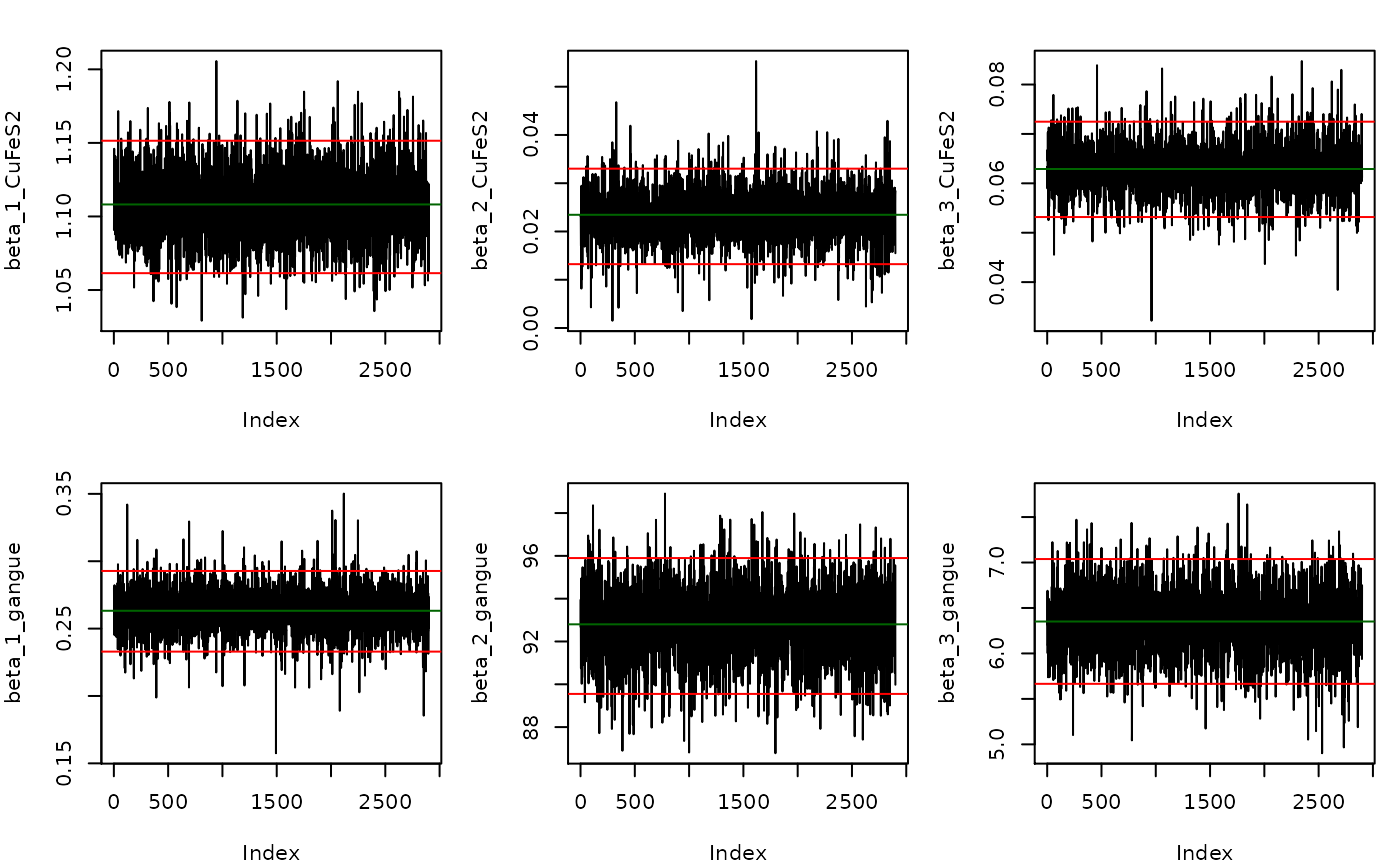
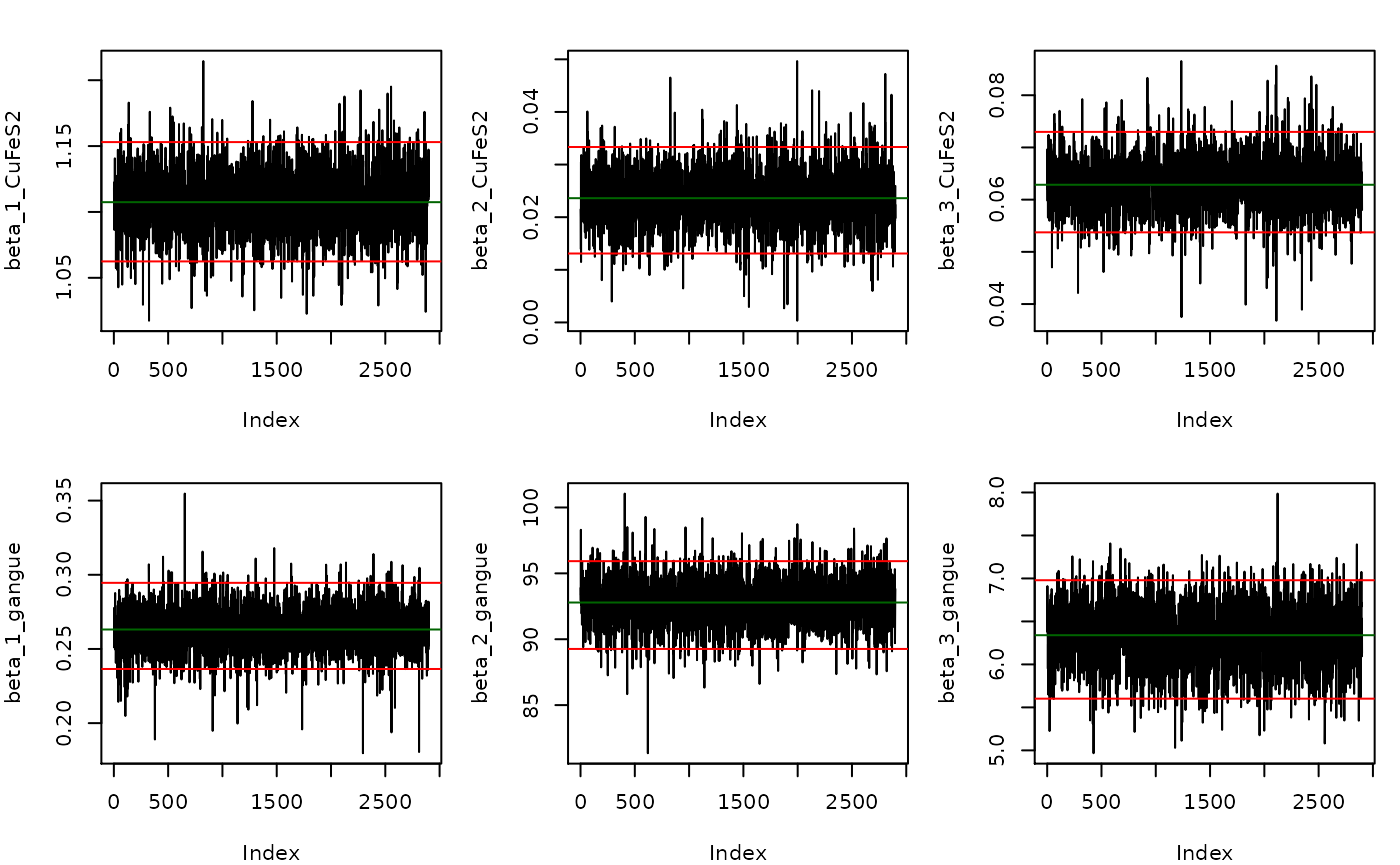
Edit headers option in importObservations

diff --git a/docs/articles/Two_Node_Process.html b/docs/articles/Two_Node_Process.html
@@ -89,7 +89,7 @@
       <h1 data-toc-skip>Two_Node_Process</h1>
                         <h4 class="author">Scott Koermer</h4>
             
-            <h4 class="date">2020-10-31</h4>
+            <h4 class="date">2020-11-01</h4>
       
       <small class="dont-index">Source: <a href="https://github.com/skoermer/BayesMassBal/blob/master/vignettes/Two_Node_Process.Rmd"><code>vignettes/Two_Node_Process.Rmd</code></a></small>
       <div class="hidden name"><code>Two_Node_Process.Rmd</code></div>
@@ -151,34 +151,34 @@ y_2 &amp;= y_3 +y_5
 <span class="va">indep.samples</span><span class="op">$</span><span class="va">diagnostics</span>
 <span class="co">#&gt; $beta</span>
 <span class="co">#&gt; $beta$CuFeS2</span>
-<span class="co">#&gt;   index         cd  ess</span>
-<span class="co">#&gt; 1     1  0.4698690 2900</span>
-<span class="co">#&gt; 2     2 -0.8089679 2900</span>
-<span class="co">#&gt; 3     3  1.1388822 2900</span>
+<span class="co">#&gt;   index          cd      ess</span>
+<span class="co">#&gt; 1     1  0.13087162 2750.116</span>
+<span class="co">#&gt; 2     2  0.21969435 3164.781</span>
+<span class="co">#&gt; 3     3 -0.06806978 2899.375</span>
 <span class="co">#&gt; </span>
 <span class="co">#&gt; $beta$gangue</span>
 <span class="co">#&gt;   index         cd      ess</span>
-<span class="co">#&gt; 1     1  1.3307340 2900.000</span>
-<span class="co">#&gt; 2     2  1.1294312 2900.000</span>
-<span class="co">#&gt; 3     3 -0.7253307 1839.823</span>
+<span class="co">#&gt; 1     1 -1.8067558 3359.407</span>
+<span class="co">#&gt; 2     2 -0.4961405 2702.483</span>
+<span class="co">#&gt; 3     3 -0.3259970 1822.626</span>
 <span class="co">#&gt; </span>
 <span class="co">#&gt; </span>
 <span class="co">#&gt; $Sig</span>
 <span class="co">#&gt; $Sig[[1]]</span>
-<span class="co">#&gt;   index          cd      ess</span>
-<span class="co">#&gt; 1     1  0.02512262 2900.000</span>
-<span class="co">#&gt; 2     2 -0.99765338 3194.444</span>
-<span class="co">#&gt; 3     3 -0.21544072 2536.665</span>
-<span class="co">#&gt; 4     4 -1.31410085 2512.968</span>
-<span class="co">#&gt; 5     5 -0.90335530 2246.037</span>
+<span class="co">#&gt;   index         cd      ess</span>
+<span class="co">#&gt; 1     1 -0.4066031 2900.000</span>
+<span class="co">#&gt; 2     2  1.6994162 2900.000</span>
+<span class="co">#&gt; 3     3  0.6480666 2049.341</span>
+<span class="co">#&gt; 4     4 -0.1945451 2168.492</span>
+<span class="co">#&gt; 5     5 -0.5301614 1833.494</span>
 <span class="co">#&gt; </span>
 <span class="co">#&gt; $Sig[[2]]</span>
 <span class="co">#&gt;   index         cd      ess</span>
-<span class="co">#&gt; 1     1 -0.3817052 2900.000</span>
-<span class="co">#&gt; 2     2 -0.1001386 2394.138</span>
-<span class="co">#&gt; 3     3 -0.9168995 1882.698</span>
-<span class="co">#&gt; 4     4 -1.6500332 2026.659</span>
-<span class="co">#&gt; 5     5  0.6232039 2126.653</span></pre></div>
+<span class="co">#&gt; 1     1 -0.6132881 2737.802</span>
+<span class="co">#&gt; 2     2 -3.1925243 2596.672</span>
+<span class="co">#&gt; 3     3 -0.4433417 2214.190</span>
+<span class="co">#&gt; 4     4  0.2755739 2487.155</span>
+<span class="co">#&gt; 5     5 -1.2716605 2412.166</span></pre></div>
 <p>The model with independent variances may not be the best fitting model. Models specifying covariance between sample locations for a single component, and covariance between components at a single location are fit.</p>
 <div class="sourceCode" id="cb10"><pre class="downlit">
 <span class="va">component.samples</span> <span class="op">&lt;-</span> <span class="fu"><a href="../reference/BMB.html">BMB</a></span><span class="op">(</span>X <span class="op">=</span> <span class="va">X</span>, y <span class="op">=</span> <span class="va">y</span>, cov.structure <span class="op">=</span> <span class="st">"component"</span>, BTE <span class="op">=</span> <span class="fu"><a href="https://rdrr.io/r/base/c.html">c</a></span><span class="op">(</span><span class="fl">100</span>,<span class="fl">3000</span>,<span class="fl">1</span><span class="op">)</span>, lml <span class="op">=</span> <span class="cn">TRUE</span>, verb <span class="op">=</span> <span class="fl">0</span><span class="op">)</span></pre></div>
@@ -187,11 +187,11 @@ y_2 &amp;= y_3 +y_5
 <p>Computing <span class="math inline">\(\log(\mathrm{Bayes Factor})\)</span> for <span class="math inline">\(BF = p(y|\texttt{indep})/p(y|\texttt{component})\)</span>:</p>
 <div class="sourceCode" id="cb12"><pre class="downlit">
 <span class="va">indep.samples</span><span class="op">$</span><span class="va">lml</span> <span class="op">-</span> <span class="va">component.samples</span><span class="op">$</span><span class="va">lml</span>
-<span class="co">#&gt; [1] -126.7639</span></pre></div>
+<span class="co">#&gt; [1] -126.8108</span></pre></div>
 <p>Then comparing <span class="math inline">\(p(y|\texttt{component})\)</span> to <span class="math inline">\(p(y|\texttt{location})\)</span></p>
 <div class="sourceCode" id="cb13"><pre class="downlit">
 <span class="va">component.samples</span><span class="op">$</span><span class="va">lml</span> <span class="op">-</span> <span class="va">location.samples</span><span class="op">$</span><span class="va">lml</span>
-<span class="co">#&gt; [1] 0.7981425</span></pre></div>
+<span class="co">#&gt; [1] 0.794075</span></pre></div>
 <p>Shows there is little difference between the models where <code>cov.structure  = "location"</code> and <code>cov.structure = "component"</code>, but both of these models better explain the data than <code>cov.structure = "indep"</code>.</p>
 <p>The main effect of a variable independent of the process can be calculated by supplying a function, <code>fn</code> that takes the arguments of mass balanced flow rates <code>ybal</code>, and the random independent and uniformly distributed variables <code>x</code>. Information can be gained on the main effect of a particular element of <code>x</code>, <code>xj</code>, on <code>fn</code> using the <code>mainEff</code> function. Output from <code>mainEff</code> includes information on the distribution of <span class="math inline">\(E_x\lbrack f(x,y_{\mathrm{bal}})|x_j \rbrack\)</span>.</p>
 <div class="sourceCode" id="cb14"><pre class="downlit">

diff --git a/docs/reference/constrainProcess.html b/docs/reference/constrainProcess.html
@@ -183,7 +183,8 @@
 #&gt; [5,]    0    0    1</div><div class='input'>
 <span class='co'>## Obtaining the constraints from a .csv file</span>
 
-<span class='va'>C</span> <span class='op'>&lt;-</span> <span class='fu'>constrainProcess</span><span class='op'>(</span>file <span class='op'>=</span> <span class='fu'><a href='https://rdrr.io/r/base/system.file.html'>system.file</a></span><span class='op'>(</span><span class='st'>"extdata"</span>, <span class='st'>"twonode_constraints.csv"</span>,package <span class='op'>=</span> <span class='st'>"BayesMassBal"</span><span class='op'>)</span><span class='op'>)</span>
+<span class='va'>C</span> <span class='op'>&lt;-</span> <span class='fu'>constrainProcess</span><span class='op'>(</span>file <span class='op'>=</span>
+ <span class='fu'><a href='https://rdrr.io/r/base/system.file.html'>system.file</a></span><span class='op'>(</span><span class='st'>"extdata"</span>, <span class='st'>"twonode_constraints.csv"</span>,package <span class='op'>=</span> <span class='st'>"BayesMassBal"</span><span class='op'>)</span><span class='op'>)</span>
 
 </div></pre>
   </div>
